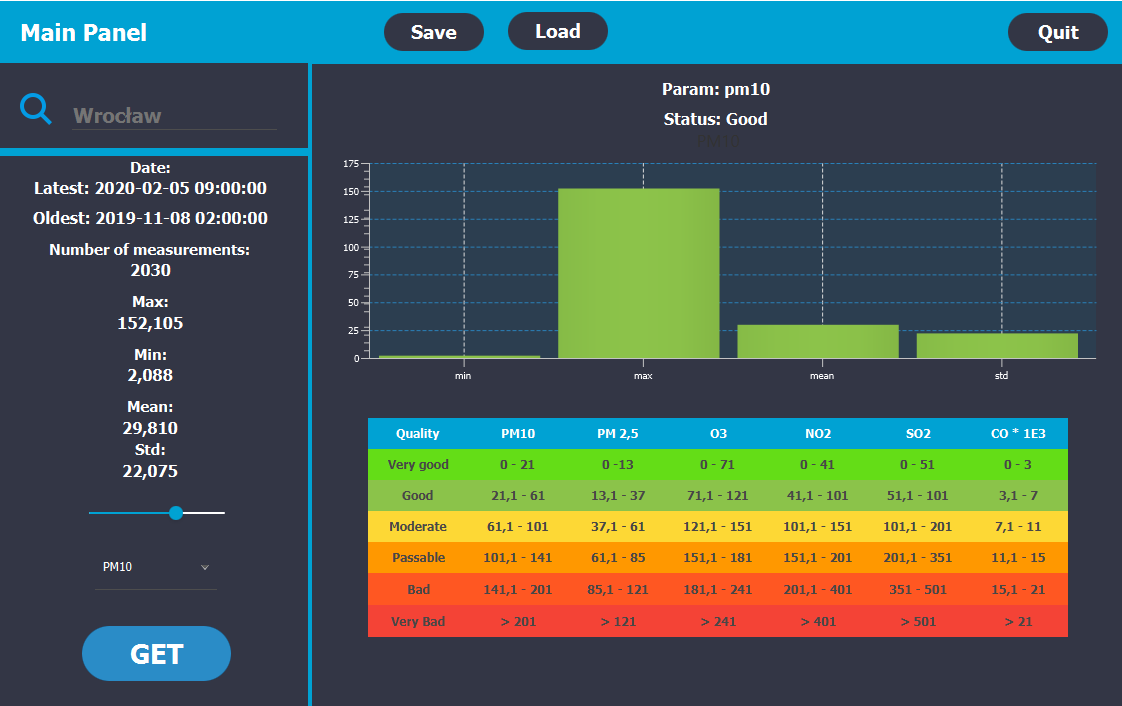
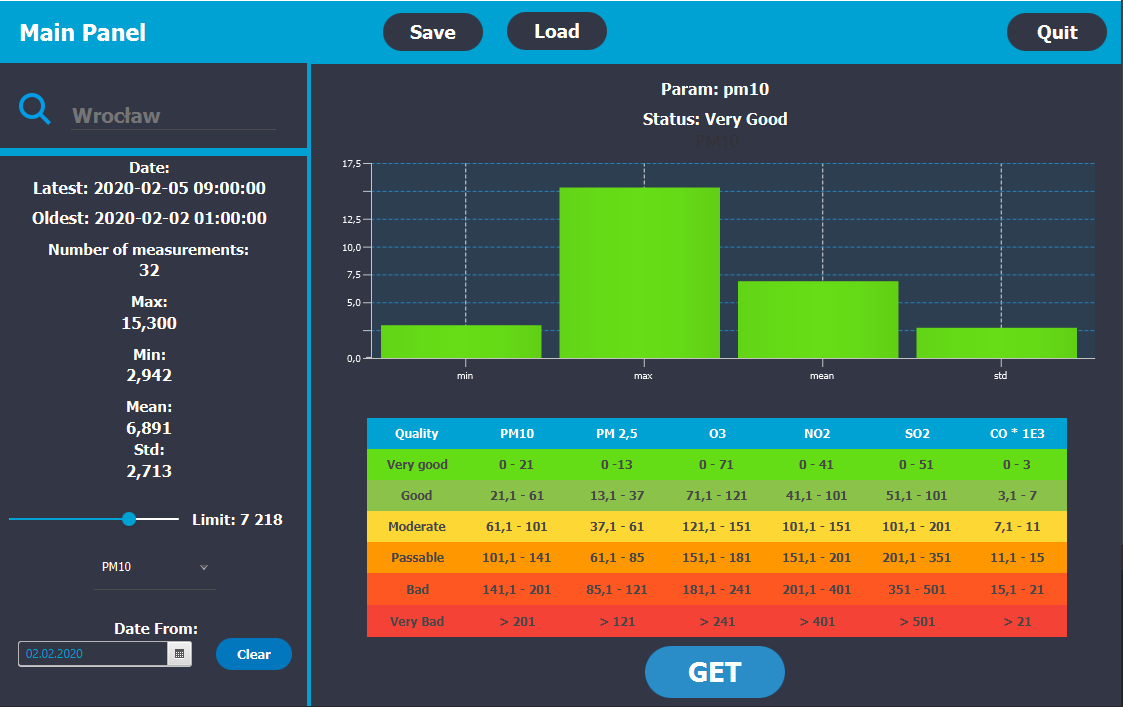
Gui update

diff --git a/src/main/resources/css/dashboard.css b/src/main/resources/css/dashboard.css
@@ -91,3 +91,87 @@
     -fx-background-color: #00A2D3;
 }
 
+
+.date-picker .text-field{
+    -fx-background-color:#333645 ;
+    -fx-background-insets: 1 0 1 1;
+    -fx-background-radius: 2 0 0 2;
+    -fx-text-fill:  #00A2D3;
+}
+
+.date-picker-popup {
+    -fx-background-color:#333645 ;
+    -fx-text-fill: white;
+}
+
+.date-picker-popup > * > .day-cell{
+    -fx-background-color:#333645 ;
+    -fx-text-fill: white;
+}
+
+.date-picker-popup > .month-year-pane {
+     -fx-padding: 0.588883em 0.5em 0.666667em 0.5em; /* 7 6 8 6 */
+     -fx-background-color:#333645 ;
+     -fx-background-insets: 0 0 0 0, 0 0 1 0;
+    -fx-text-fill: white;
+ }
+
+
+
+.date-picker-popup > * > .spinner > .button {
+    -fx-background-color: #00A2D3;
+    -fx-background-insets: 0, 1, 2;
+    -fx-color: transparent;
+    -fx-background-radius: 90;
+
+}
+
+
+.date-picker-popup > .calendar-grid {
+    -fx-background-color: #333645;
+    -fx-padding: 0;
+    -fx-text-fill:#00A2D3 ;
+}
+
+
+
+.date-picker-popup > * > .date-cell {
+    -fx-background-color:  #333645;
+    -fx-background-insets: 1, 2;
+    -fx-padding: 0;
+    -fx-alignment: BASELINE_CENTER;
+    -fx-opacity: 1.0;
+    -fx-text-fill: white;
+}
+
+.date-picker-popup > * > .week-number-cell {
+    -fx-padding: 0.333333em 0.583333em 0.333333em 0.583333em; /* 4 7 4 7 */
+    -fx-border-color: white;
+    -fx-border-width: 1px;
+    -fx-background: #333645;
+    -fx-background-color: #333645;
+    -fx-text-fill: white;
+}
+
+.date-picker-popup > * > .day-cell {
+    -fx-padding: 0.333333em 0.583333em 0.333333em 0.583333em; /* 4 7 4 7 */
+    -fx-border-color:  #00A2D3;
+    -fx-border-width: 1px;
+    -fx-font-size: 1em;
+    -fx-background: #333645;
+    -fx-background-color: #333645;
+    -fx-text-fill:  #00A2D3;
+}
+
+.date-picker-popup > * > .today {
+    -fx-background-color: white;
+    -fx-background-insets: 1, 2, 3;
+}
+
+.date-picker-popup > * > .day-cell:hover,
+.date-picker-popup > * > .selected,
+.date-picker-popup > * > .previous-month.selected,
+.date-picker-popup > * > .next-month.selected {
+    -fx-background: #00A2D3;
+    -fx-text-fill:  white;
+}

diff --git a/src/main/java/app/controllers/DashboardController.java b/src/main/java/app/controllers/DashboardController.java
@@ -6,21 +6,21 @@ import app.models.Measurement;
 import app.util.CloseApplication;
 import app.util.DialogUtils;
 import app.util.SessionSaver;
-import com.jfoenix.controls.JFXButton;
-import com.jfoenix.controls.JFXComboBox;
-import com.jfoenix.controls.JFXSlider;
-import com.jfoenix.controls.JFXTextField;
+import com.jfoenix.controls.*;
 
 import java.io.File;
 import java.net.URL;
 import java.net.URLEncoder;
 import java.nio.charset.StandardCharsets;
 import java.security.InvalidParameterException;
+import java.time.LocalDate;
 import java.util.*;
 import java.util.stream.Collectors;
 
 import javafx.application.Platform;
 import javafx.beans.binding.Bindings;
+import javafx.beans.property.IntegerProperty;
+import javafx.beans.property.SimpleIntegerProperty;
 import javafx.beans.property.SimpleStringProperty;
 import javafx.beans.property.StringProperty;
 import javafx.collections.FXCollections;
@@ -31,10 +31,13 @@ import javafx.scene.chart.BarChart;
 import javafx.scene.chart.CategoryAxis;
 import javafx.scene.chart.NumberAxis;
 import javafx.scene.chart.XYChart;
+import javafx.scene.control.DatePicker;
 import javafx.scene.control.Label;
 import javafx.scene.layout.Pane;
 import javafx.stage.FileChooser;
 import javafx.stage.Stage;
+import javafx.util.StringConverter;
+import javafx.util.converter.NumberStringConverter;
 
 /**
  * Controller for dashboard view.
@@ -44,6 +47,7 @@ public class DashboardController {
     private final static String apiRequest = "https://api.openaq.org/v1/measurements?city=";
     private final static String apiRequestParameter = "&parameter=";
     private final static String apiRequestLimit = "&limit=";
+    private final static String apiRequestFromDate = "&date_from=";
 
     @FXML
     public BarChart<String, Number> barPlot;
@@ -77,6 +81,13 @@ public class DashboardController {
 
     @FXML
     public Label statusLabel;
+
+    @FXML
+    public DatePicker datePicker;
+
+    @FXML
+    public Label limitLabel;
+
 
     @FXML
     private ResourceBundle resources;
@@ -119,6 +130,9 @@ public class DashboardController {
      */
     private FileChooser fileChooser;
 
+    private StringConverter<Number> converter = new NumberStringConverter();
+    private IntegerProperty integerProperty = new SimpleIntegerProperty();
+
     @FXML
     void initialize() {
         assert cityText != null : "fx:id=\"cityText\" was not injected: check your FXML file 'dashboard.fxml'.";
@@ -147,6 +161,10 @@ public class DashboardController {
         fileChooser = new FileChooser();
         FileChooser.ExtensionFilter extensionFilter = new FileChooser.ExtensionFilter("Json files (*json)", "*.json");
         fileChooser.getExtensionFilters().add(extensionFilter);
+
+        integerProperty.bind(limitSlider.valueProperty());
+        limitLabel.textProperty().bindBidirectional(integerProperty,converter);
+
     }
 
 
@@ -158,16 +176,19 @@ public class DashboardController {
         System.out.println(chosenParameter);
         try {
             String q = chosenCity.get();
+            LocalDate date = datePicker.getValue();
+            System.out.println("DATE : "+date);
             String url = apiRequest + URLEncoder.encode(q, StandardCharsets.UTF_8) + apiRequestParameter + chosenParameter.getKey() + apiRequestLimit + (int) limitSlider.getValue();
+            if(date !=  null )
+                url = url.concat(apiRequestFromDate+date.toString());
 
             measurements = Connector.getResponse(url);
             // overwrite city name with proper encoding
             measurements.forEach(x -> x.setCity(q));
             plotMeasurementsData();
 
-
         } catch (InvalidParameterException e) {
-            DialogUtils.popupWindow("Invalid City", 2);
+            DialogUtils.popupWindow("Invalid URL", 2);
         }
 
     }
@@ -191,7 +212,6 @@ public class DashboardController {
         localdateText.setText("Oldest: " + dateL + " " + timeL);
 
         paramLabel.setText("Param: " + measurements.get(0).getParameter());
-
 
 
         // Call method that calculated descriptive statistics of measurements
@@ -345,7 +365,7 @@ public class DashboardController {
             measurements = SessionSaver.loadFromJson(file);
             // Finds parameter associated with loaded measurements.
             Measurement.Parameter param = Measurement.Parameter.findByKey(measurements.get(0).getParameter());
-            if(param != null){
+            if (param != null) {
                 chosenParameter = param;
                 parameterBox.getSelectionModel().select(param);
             }
@@ -357,5 +377,9 @@ public class DashboardController {
 
     public void closeApplication(ActionEvent actionEvent) {
         CloseApplication.closeApplication();
+    }
+
+    public void clearDatePicker(ActionEvent actionEvent) {
+        datePicker.setValue(null);
     }
 }
